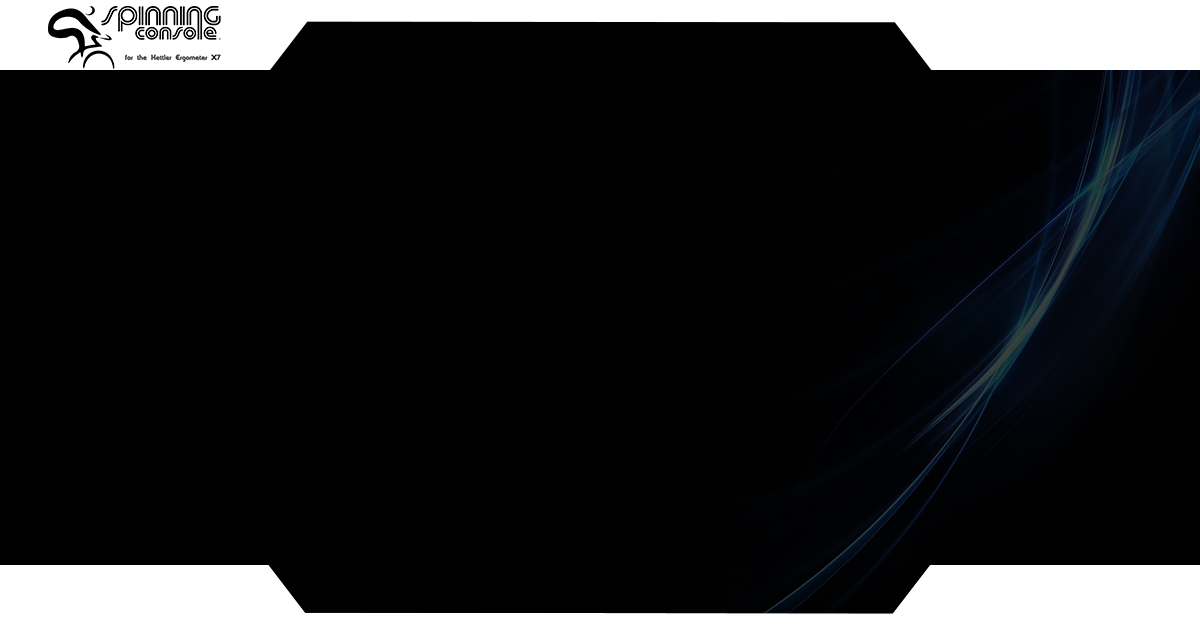
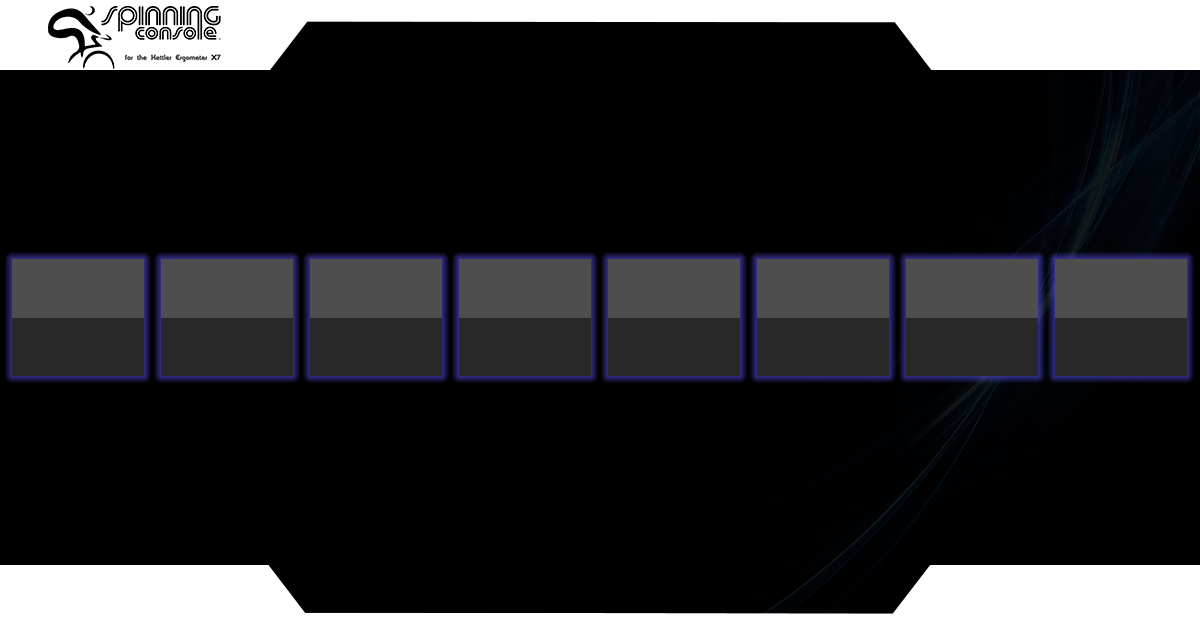
change doctor form

Changed region(s): [[0.0, 0.0898, 1.0, 0.748], [0.74, 0.748, 0.7708, 0.8079], [0.7092, 0.8079, 0.74, 0.8378]]

diff --git a/ClientServer/ClientServer/Doctor/mainForm.Designer.cs b/ClientServer/ClientServer/Doctor/mainForm.Designer.cs
@@ -35,6 +35,7 @@
             this.timeTimer = new System.Windows.Forms.Timer(this.components);
             this.saveButton = new System.Windows.Forms.Button();
             this.loadButton = new System.Windows.Forms.Button();
+            this.label1 = new System.Windows.Forms.Label();
             this.SuspendLayout();
             // 
             // textBox1
@@ -89,12 +90,25 @@
             this.loadButton.Text = "LOAD";
             this.loadButton.UseVisualStyleBackColor = false;
             // 
+            // label1
+            // 
+            this.label1.AutoSize = true;
+            this.label1.BackColor = System.Drawing.Color.Transparent;
+            this.label1.Font = new System.Drawing.Font("Good Times", 15.75F, System.Drawing.FontStyle.Regular, System.Drawing.GraphicsUnit.Point, ((byte)(0)));
+            this.label1.ForeColor = System.Drawing.Color.White;
+            this.label1.Location = new System.Drawing.Point(40, 264);
+            this.label1.Name = "label1";
+            this.label1.Size = new System.Drawing.Size(73, 21);
+            this.label1.TabIndex = 4;
+            this.label1.Text = "Time";
+            // 
             // mainForm
             // 
             this.AutoScaleDimensions = new System.Drawing.SizeF(6F, 13F);
             this.AutoScaleMode = System.Windows.Forms.AutoScaleMode.Font;
             this.BackgroundImage = global::Doctor.Properties.Resources.background;
-            this.ClientSize = new System.Drawing.Size(1184, 635);
+            this.ClientSize = new System.Drawing.Size(1199, 635);
+            this.Controls.Add(this.label1);
             this.Controls.Add(this.loadButton);
             this.Controls.Add(this.saveButton);
             this.Controls.Add(this.currentTimeLabel);
@@ -117,6 +131,7 @@
         private System.Windows.Forms.Timer timeTimer;
         private System.Windows.Forms.Button saveButton;
         private System.Windows.Forms.Button loadButton;
+        private System.Windows.Forms.Label label1;
     }
 }
 
